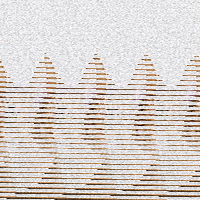
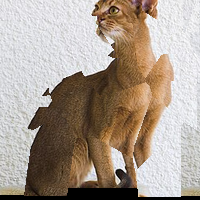
Fix voronoi.js

diff --git a/voronoi.js b/voronoi.js
@@ -4,7 +4,7 @@ import seedrandom from 'seedrandom'
 const width = 200;
 const height = 200;
 
-const baseImg = await sharp("assets/kitty.jpeg").raw().toBuffer({ resolveWithObject: true });
+const baseImg = await sharp("assets/kitty.jpeg").resize(width,height).raw().toBuffer({ resolveWithObject: true });
 const baseImageBuffer = new Uint8ClampedArray(baseImg.data.buffer);
 
 function v2(x, y) {
@@ -42,8 +42,8 @@ for (let y = 0; y < height; y++) {
 		}*/
 		//if (distance(v[0], v2(x/width,y/height)) > 0.1) {
 		const generator = seedrandom(v[0].index);
-		const new_x = parseInt(x + generator() * 0);
-		const new_y = parseInt(y + generator() * 0);
+		const new_x = parseInt(x + generator() * 20);
+		const new_y = parseInt(y + generator() * 20);
 
     		const index2 = (new_y * width + new_x) * 3;
 	
